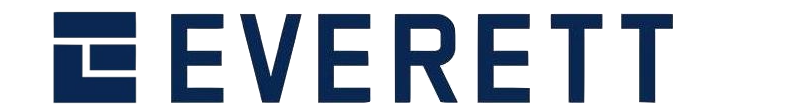
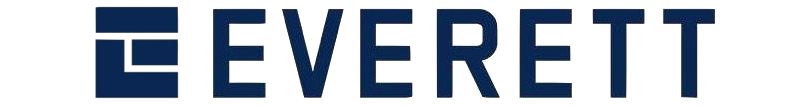
Fixxed sizing errors

diff --git a/index.html b/index.html
@@ -408,9 +408,10 @@
 
     <div style="text-align: center; justify-content: center; margin-top: 30px; margin-left: 30px; margin-right: 30px;">
 
+        <p style="font-size: x-large;">Sponsored by</p>
 
-        <img src="assets/img/sponsors/snoho.png" alt="" style="max-height: 60px; max-width: 400px; margin-bottom: 30px;">
-        <img src="assets/img/sponsors/everett.png" alt="" style="max-height: 60px; margin-bottom: 30px;">
+        <img src="assets/img/sponsors/snoho.png" alt="" style="max-height: 60px; max-width: 300px; margin-bottom: 30px;">
+        <img src="assets/img/sponsors/everett.png" alt="" style="max-height: 60px; max-width: 400px; margin-bottom: 30px;">
 
 
         <div style="text-align: center;">
@@ -545,19 +546,8 @@
                     </div>
                 </div>
             </li>
-            <li class="timeline-image">
-                <div class="timeline-image"><img class="rounded-circle img-fluid" src="assets/img/tshirts.jpg"
-                        alt="..." /></div>
-                <div class="timeline-panel">
-                    <div class="timeline-body">
-                        <p class="text-muted"></p>
-                    </div>
-                </div>
-            </li>
 
         </ul>
-        <h4 class="subheading">Win or lose, get free swag!</h4>
-
     </section>
 
     <section class="page-section" id="prizes">
@@ -593,6 +583,8 @@
                             <li>Sony PlayStation Classic</li>
                             <li>Logitech MX Anywhere 3S Compact Wireless Mouse</li>
                             <li>RK ROYAL KLUDGE RK61 Wired 60% Mechanical Gaming Keyboard</li>
+                            <h4 class="subheading d-none d-md-block" style="margin-top: 10px;">Win or lose, you still get free swag!</h4>
+
                         </ul>
                     </div>
                 </li>
